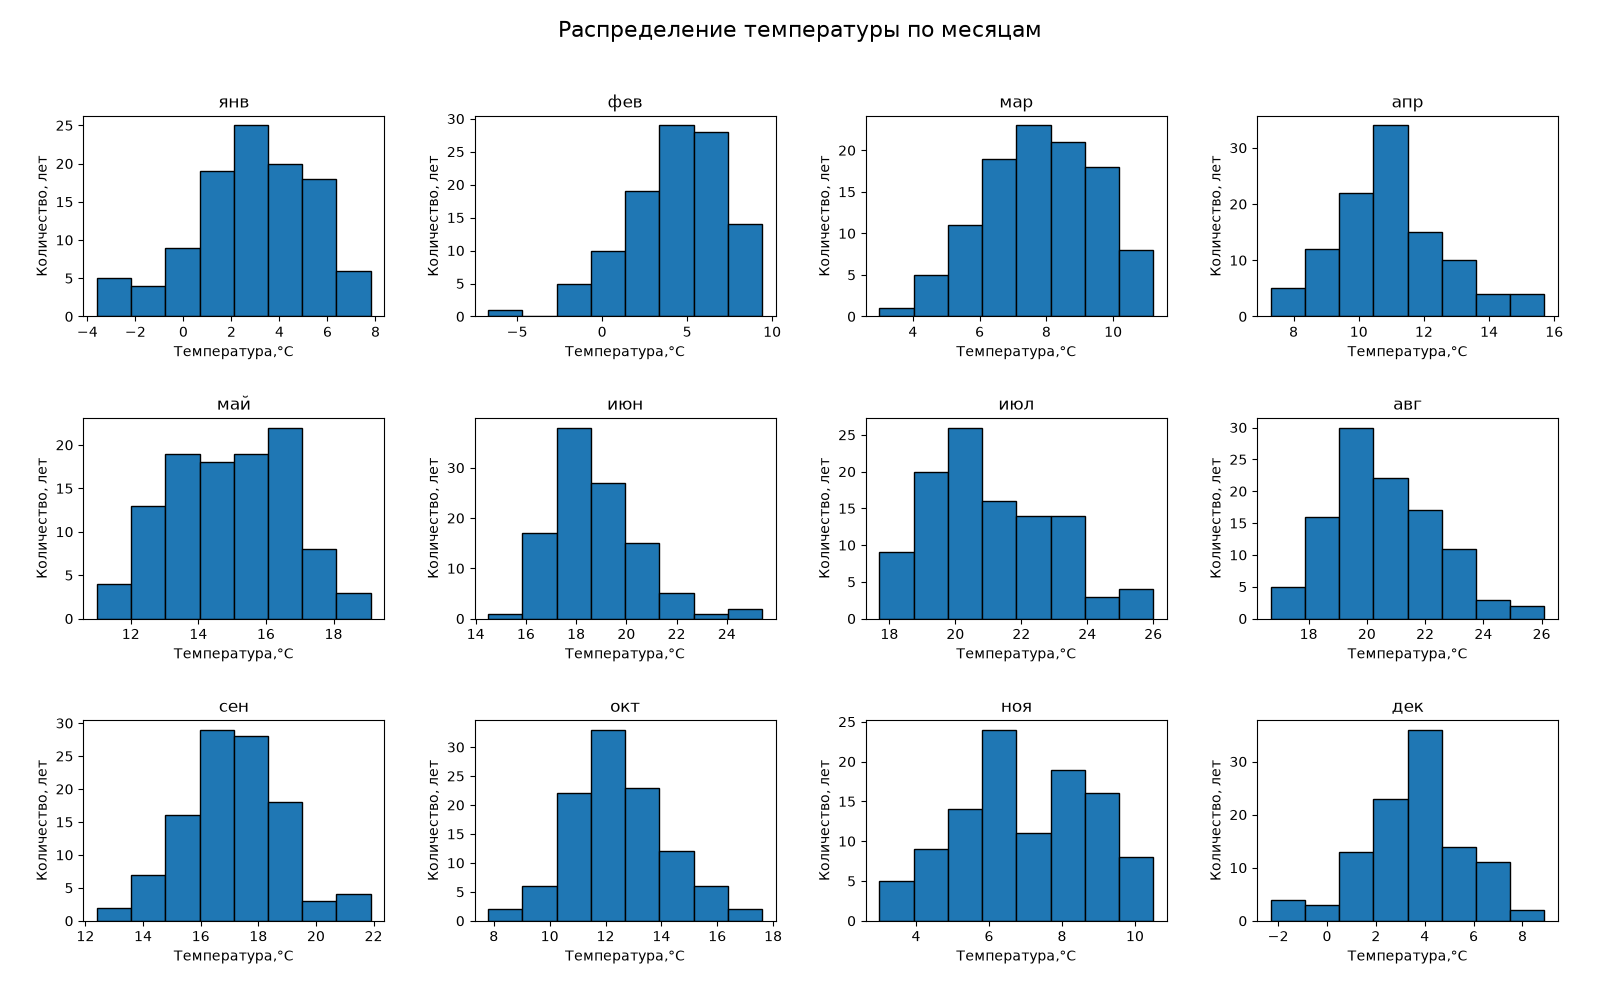
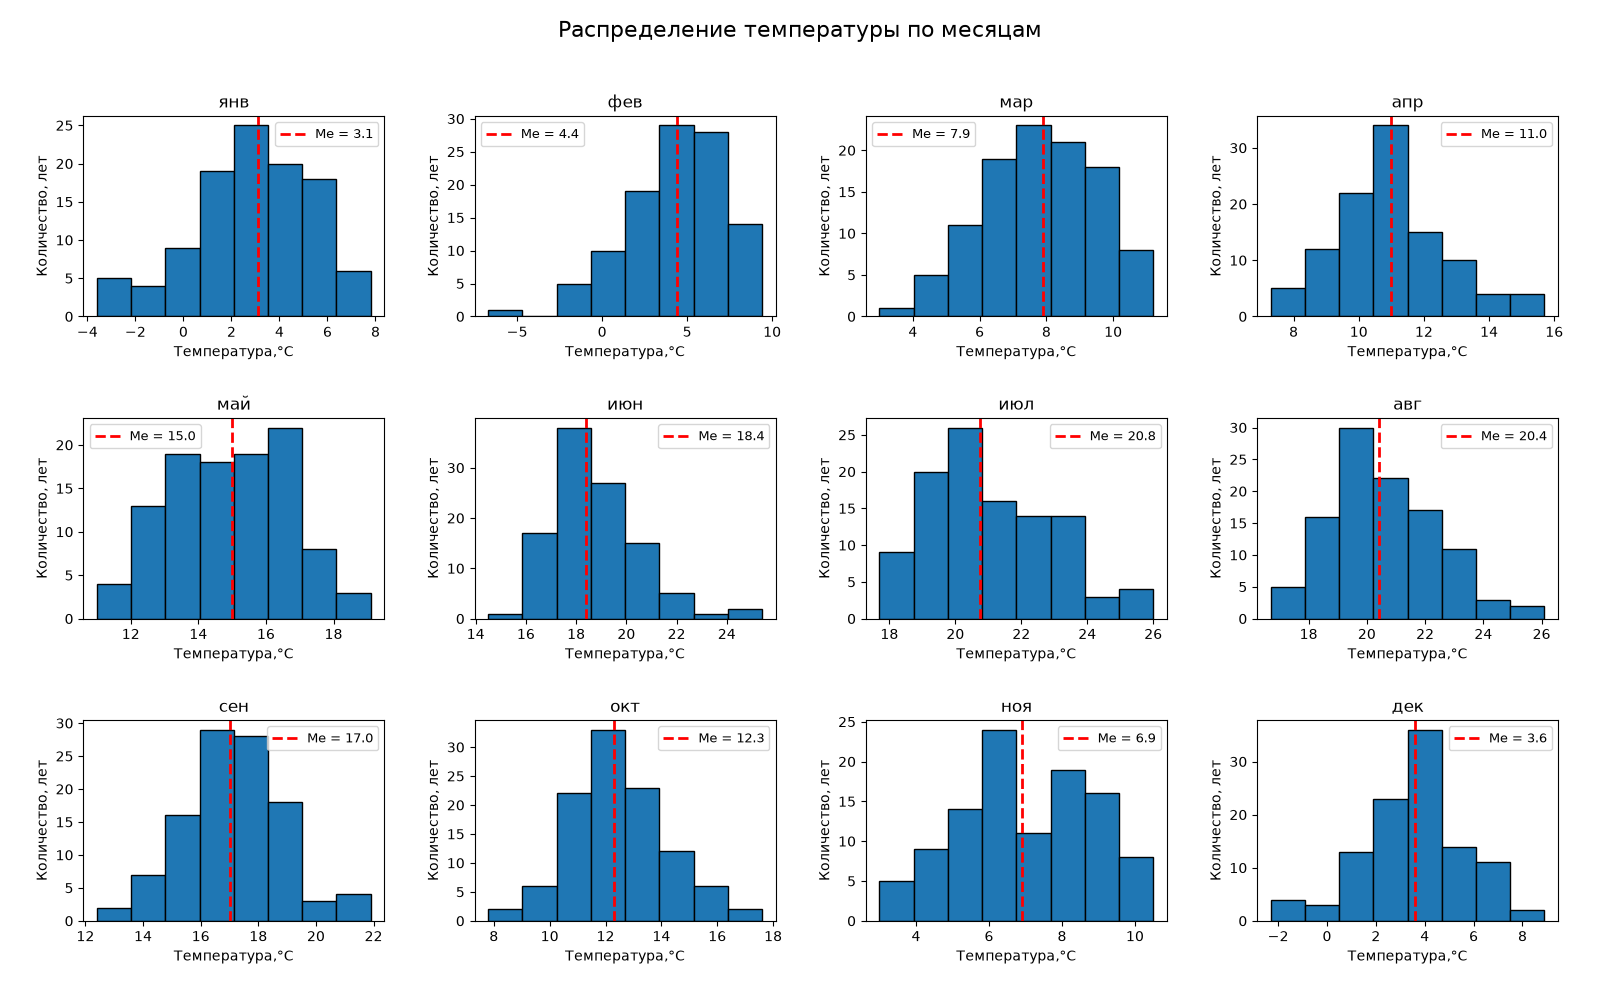
Добавил медиану

diff --git a/Data_analytics/w1.py b/Data_analytics/w1.py
@@ -91,6 +91,12 @@ for raw in axes:
     for ax in raw:
         ax.set_xlabel("Температура,°C", fontsize=10)
         ax.set_ylabel("Количество, лет", fontsize=10)
+        # медиана: заголовок оси совпадает с названием месяца
+        med = weather[ax.get_title()].median()
+        ax.axvline(med, color='red', linestyle='--', linewidth=2,
+                   label=f"Me = {med:.1f}")
+        ax.legend(fontsize=9)
+        
 fig = plt.gcf()
 fig.suptitle("Распределение температуры по месяцам", fontsize=16)
 plt.tight_layout(pad=2.6)
